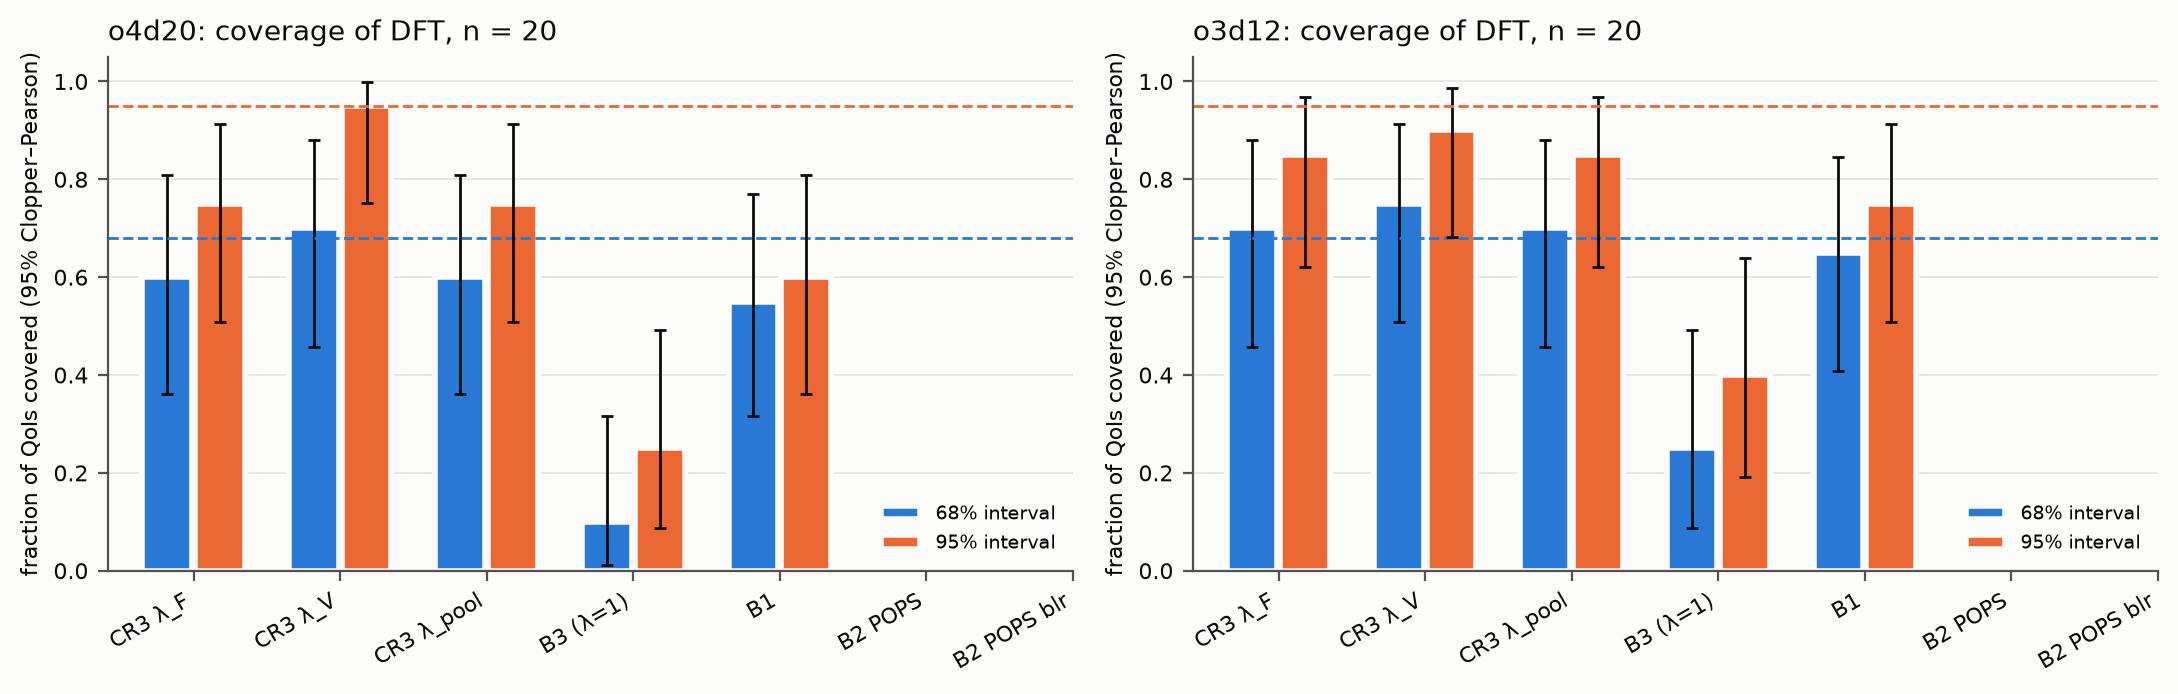
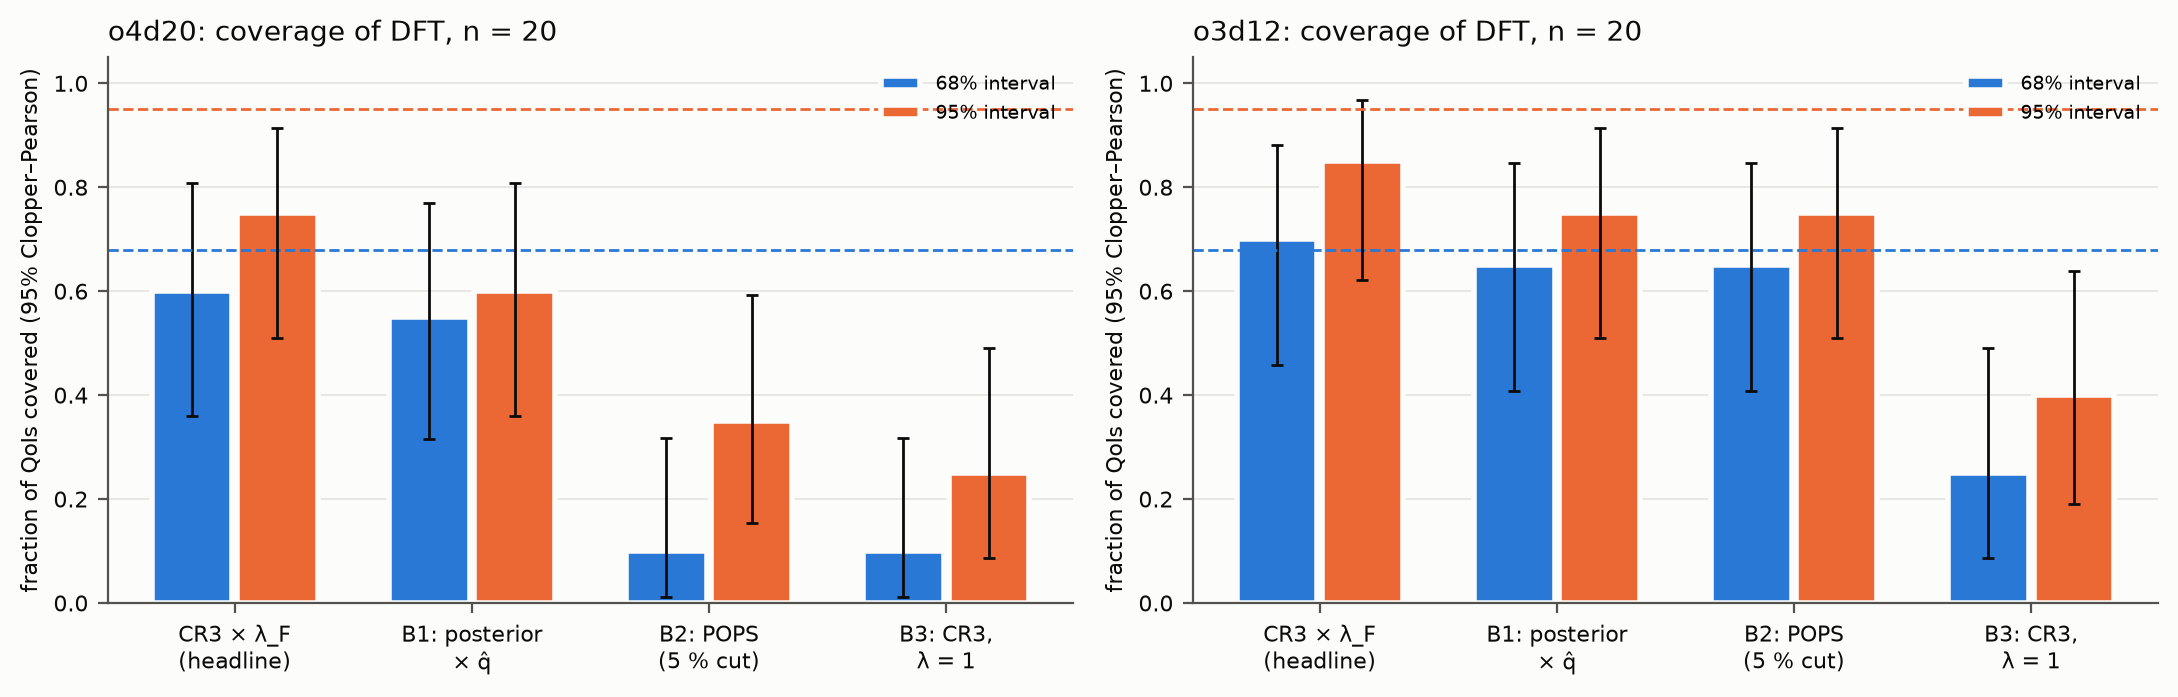
docs(si-qoi-uq): coverage figure uses the model-comparison figure's four methods (B2 = POPS, 5 % cut)

diff --git a/bench/si_qoi_uq/figures.py b/bench/si_qoi_uq/figures.py
@@ -16,6 +16,8 @@ from .propagate import COVER_KEYS, KEYS  # noqa: E402
 SURFACE, INK, MUTED, GRID = "#fcfcfb", "#0b0b0b", "#52514e", "#e4e3df"
 CAT = ["#2a78d6", "#eb6834", "#1baf7a", "#eda100", "#e87ba4", "#6250d6", "#008300"]
 MARK = ["o", "s", "D", "^", "v", "P", "X"]
+PANELS = (("CR3-headline", "lam_F", "CR3 × λ_F (headline)"), ("B1-headline", "q_b1", "B1: posterior × conformal q̂"),
+          ("B2lev5-committee", "lam_1", "B2: POPS (leverage cut 5 %)"), ("B3-headline", "lam_1", "B3: CR3, λ = 1"))
 SHORT = {"diamond_bulk_modulus": "B", "diamond_c11": "C11", "diamond_c12": "C12", "diamond_c44": "C44",
          "vacancy_energy": "vacancy", "dumbbell_interstitial_energy": "dumbbell", "hexagonal_interstitial_energy":
          "hex. int.", "tetrahedral_interstitial_energy": "tet. int.", "surface_100 (J/m2)": "(100) surf.",
@@ -82,10 +84,9 @@ def strip(results, out, models):
 
 def coverage_bars(results, out, models):
     cov = [r for r in csv.DictReader(open(results / "coverage.csv"))]
-    sel = [("CR3-headline", "lam_F", "CR3 λ_F"), ("CR3-headline", "lam_V", "CR3 λ_V"),
-           ("CR3-headline", "lam_pool", "CR3 λ_pool"), ("B3-headline", "lam_1", "B3 (λ=1)"),
-           ("B1-headline", "q_b1", "B1"), ("B2-committee", "lam_1", "B2 POPS"),
-           ("B2blr-committee", "lam_1", "B2 POPS blr")]
+    short_lab = {"CR3-headline": "CR3 × λ_F\n(headline)", "B1-headline": "B1: posterior\n× q̂", "B2lev5-committee": "B2: POPS\n(5 % cut)",
+                 "B3-headline": "B3: CR3,\nλ = 1"}
+    sel = [(meth, sc, short_lab.get(meth, lab)) for meth, sc, lab in PANELS]        # the same methods as fig6's rows
     fig, axes = plt.subplots(1, len(models), figsize=(5.5 * len(models), 3.6), squeeze=False, facecolor=SURFACE)
     for ax, m in zip(axes[0], models):
         _style(ax)
@@ -101,7 +102,7 @@ def coverage_bars(results, out, models):
                        label=f"{lev}% interval" if i == 0 else None)
                 ax.errorbar(xi, f, yerr=[[f - lo], [hi - f]], color=INK, lw=1, capsize=2)
             ax.axhline(nom, color=CAT[j], lw=1, ls="--")
-        ax.set_xticks(range(len(sel)), [s[2] for s in sel], rotation=30, ha="right")
+        ax.set_xticks(range(len(sel)), [s[2] for s in sel], fontsize=8)
         ax.set_ylim(0, 1.05)
         ax.set_ylabel("fraction of QoIs covered (95% Clopper–Pearson)", color=INK, fontsize=8)
         ax.set_title(f"{m}: coverage of DFT, n = {n}", color=INK, fontsize=10, loc="left")
@@ -186,10 +187,6 @@ def scales_fig(results, out, models):
         ax.legend(fontsize=7, frameon=False, ncol=3)
     fig.tight_layout()
     _save(fig, out, "fig5_scale_diagnostics")
-
-
-PANELS = (("CR3-headline", "lam_F", "CR3 × λ_F (headline)"), ("B1-headline", "q_b1", "B1: posterior × conformal q̂"),
-          ("B2lev5-committee", "lam_1", "B2: POPS (leverage cut 5 %)"), ("B3-headline", "lam_1", "B3: CR3, λ = 1"))
 
 
 def model_compare(results, out, models, meth="CR3-headline", sc="lam_F", disc=False, panels=PANELS):

diff --git a/bench/si_qoi_uq/artifact/paper.py b/bench/si_qoi_uq/artifact/paper.py
@@ -515,7 +515,8 @@ logarithmic beyond, and is shared by all rows. Top row: the headline, CR3 × λ<
 {tight:.1f}× tighter in median σ/tol while its coverage stays comparable. Below it the baselines of Section 2.6: B1, the posterior
 scaled by one conformal quantile; B2, POPS with the 5 % leverage cut; B3, CR3 without calibration (λ = 1). Each row's legend gives
 its 95 % coverage and median σ/tol.</figcaption></figure>
-<figure><img src="fig2_coverage.png" alt="Coverage per method with binomial intervals"><figcaption>Figure 1b. Coverage per method.</figcaption></figure>
+<figure><img src="fig2_coverage.png" alt="Coverage per method with binomial intervals"><figcaption>Figure 1b. Fraction of the 20 scored QoIs inside the 68 % and 95 % intervals for the four methods of Figure 1
+(headline, B1, B2 with the 5 % leverage cut, B3), with 95 % Clopper–Pearson intervals; dashed lines are the nominal levels.</figcaption></figure>
 <h3>3.5 Joint test</h3>
 <div class="wrap"><table><caption>Table 4. Mahalanobis test (correlation-scaled, ε = 10<sup>−3</sup>).</caption>
 <thead><tr><th>model</th><th>method</th><th>S from</th><th>df</th><th>d²</th><th>χ²<sub>95</sub></th><th>p</th></tr></thead>
